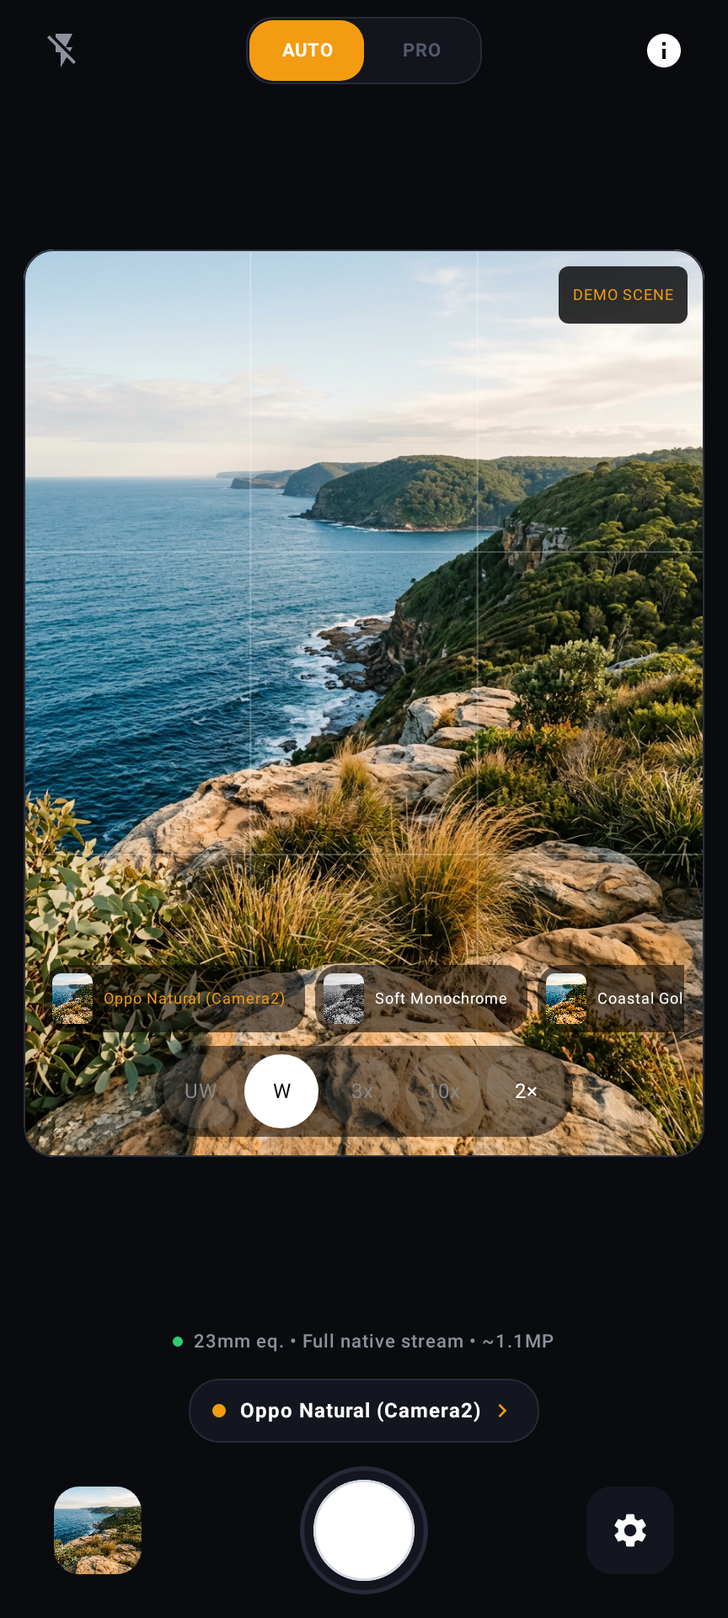
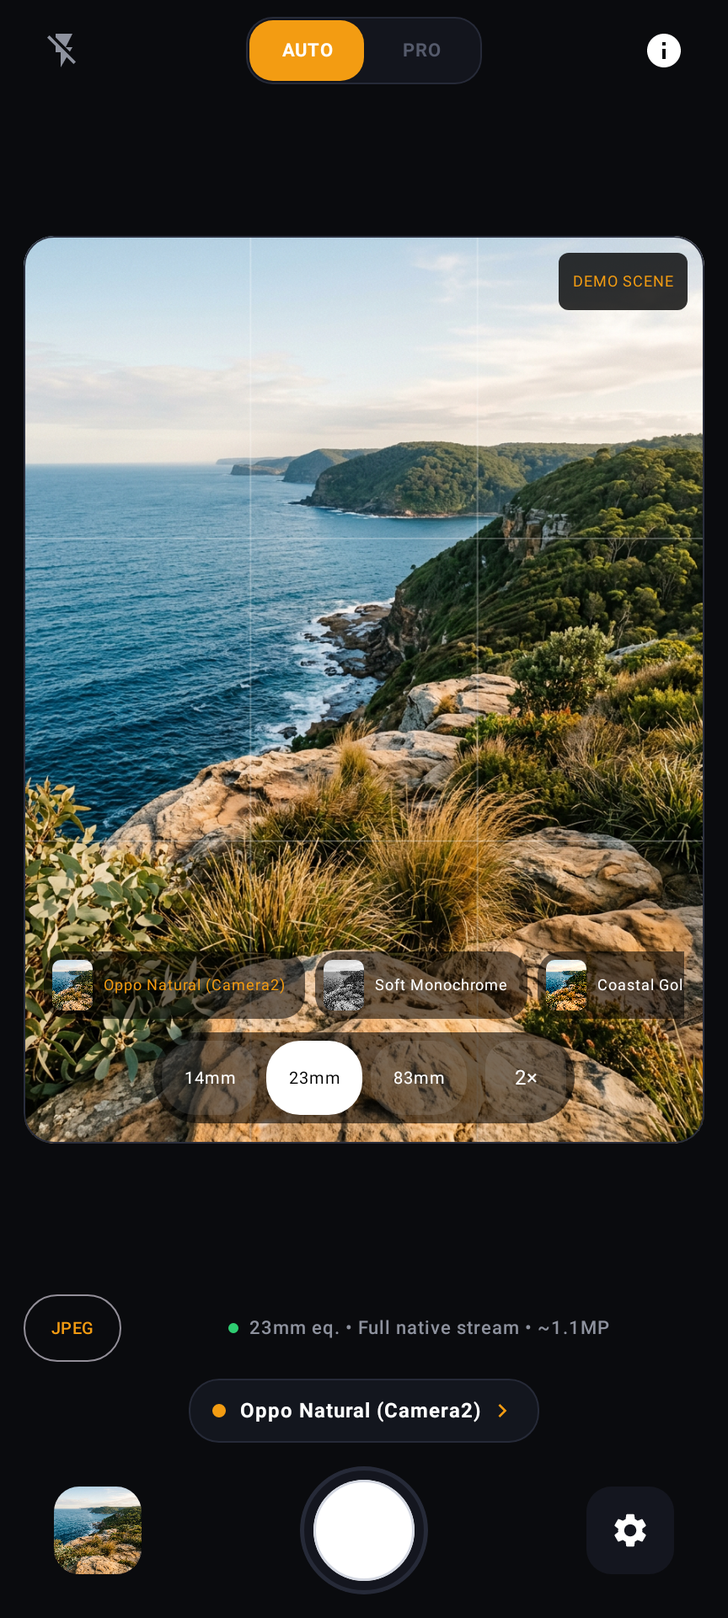
docs(site): publish verified beta.2 download and Camera2 RAW showcase

diff --git a/site/index.html b/site/index.html
@@ -45,6 +45,7 @@
       <nav class="desktop-nav" aria-label="Main navigation">
         <a href="#philosophy">Why natural</a>
         <a href="#experience">The experience</a>
+        <a href="#raw-formats">RAW formats</a>
         <a href="#compatibility">Your device</a>
         <a href="#questions">FAQ</a>
       </nav>
@@ -52,7 +53,8 @@
         <a class="button button-small button-light" href="#download">Get the app <svg class="icon"><use href="#i-download"/></svg></a>
         <details class="mobile-menu">
           <summary aria-label="Open navigation"><svg class="icon"><use href="#i-menu"/></svg></summary>
-          <nav aria-label="Mobile navigation"><a href="#philosophy">Why natural</a><a href="#experience">The experience</a><a href="#compatibility">Your device</a><a href="#questions">FAQ</a></nav>
+          <nav aria-label="Mobile navigation"><a href="#philosophy">Why natural</a><a href="#experience">The experience</a>
+        <a href="#raw-formats">RAW formats</a><a href="#compatibility">Your device</a><a href="#questions">FAQ</a></nav>
         </details>
       </div>
     </div>
@@ -62,12 +64,12 @@
     <section class="hero section" aria-labelledby="hero-title">
       <div class="container hero-grid">
         <div class="hero-copy">
-          <a class="release-pill" href="https://github.com/TheSwagInDisguise/MobileFilmLab/releases/tag/v0.2.0-beta.1"><span class="status-dot"></span> First public release <span class="pill-version">v0.2.0-beta.1</span><svg class="icon"><use href="#i-arrow"/></svg></a>
+          <a class="release-pill" href="https://github.com/TheSwagInDisguise/MobileFilmLab/releases/tag/v0.2.0-beta.2"><span class="status-dot"></span> Public release <span class="pill-version">v0.2.0-beta.2</span><svg class="icon"><use href="#i-arrow"/></svg></a>
           <h1 id="hero-title">Natural photos.<br><em>No AI added.</em></h1>
           <p class="hero-description">Your camera hardware. Your eye. A quieter Android camera built around native output—not an image model.</p>
           <p class="hero-detail">Shoot naturally, take manual control, or choose a film-inspired look. The processing MobileFilmLab adds is local, optional and non-AI.</p>
           <div class="hero-buttons">
-            <a class="button button-primary download-link" href="https://github.com/TheSwagInDisguise/MobileFilmLab/releases/download/v0.2.0-beta.1/MobileFilmLab-v0.2.0-beta.1-signed.apk"><svg class="icon"><use href="#i-download"/></svg> Download for Android</a>
+            <a class="button button-primary download-link" href="https://github.com/TheSwagInDisguise/MobileFilmLab/releases/download/v0.2.0-beta.2/MobileFilmLab-v0.2.0-beta.2-signed.apk"><svg class="icon"><use href="#i-download"/></svg> Download for Android</a>
             <a class="text-link" href="#experience">Take a look <svg class="icon"><use href="#i-arrow"/></svg></a>
           </div>
           <div class="hero-meta"><span>Android 9+</span><span>Free &amp; open source</span><span>Photos only</span></div>
@@ -95,7 +97,7 @@
           <article class="feature-card"><div class="card-top"><span class="card-icon"><svg class="icon"><use href="#i-noai"/></svg></span><span class="card-number">02</span></div><h3>No AI enhancement added.</h3><p>MobileFilmLab adds no generative image model, neural photo enhancement or cloud processing. Optional colour, sharpening, grain and fusion use conventional, non-ML algorithms.</p><a class="small-link" href="#processing-note">What this does—and doesn’t—mean <svg class="icon"><use href="#i-arrow"/></svg></a></article>
           <article class="feature-card"><div class="card-top"><span class="card-icon"><svg class="icon"><use href="#i-shield"/></svg></span><span class="card-number">03</span></div><h3>Your photos stay yours.</h3><p>Preview, capture, looks and recipe processing happen on-device. No advertising, analytics or photo uploads. The app contacts GitHub only when you choose to check for an update.</p><a class="small-link" href="https://github.com/TheSwagInDisguise/MobileFilmLab/blob/main/docs/PRIVACY.md">Read the privacy notice <svg class="icon"><use href="#i-external"/></svg></a></article>
         </div>
-        <div id="processing-note" class="processing-note"><svg class="icon"><use href="#i-sliders"/></svg><p><strong>Hardware-first doesn’t mean an unprocessed sensor dump.</strong> The device’s ISP still processes the camera image. Manufacturer firmware and optional OEM modes may use proprietary processing we can’t inspect or rule out. This release saves <strong>JPEG, not RAW/DNG</strong>; “no AI added” describes MobileFilmLab’s own processing.</p></div>
+        <div id="processing-note" class="processing-note"><svg class="icon"><use href="#i-sliders"/></svg><p><strong>Hardware-first isn’t a firmware bypass.</strong> JPEG still passes through the device ISP. Real sensor RAW/DNG is now available where Camera2 advertises it, without app-added colour, grain or crop. Even RAW can include hardware/firmware corrections; proprietary manufacturer processing remains outside the no-app-added-AI guarantee.</p></div>
       </div>
     </section>
 
@@ -107,7 +109,16 @@
           <article class="screen-card"><div class="screen-heading"><span class="screen-index">02</span><h3>PRO, on your terms.</h3><p>ISO, shutter, white balance and focus. Hardware-limited controls, no mystery promises.</p></div><button class="screen-button" type="button" data-screen="assets/app-pro.webp" data-title="PRO — actual UI render with illustrative settings" aria-label="Enlarge the PRO interface"><span class="phone"><img src="assets/app-pro.webp" width="864" height="1920" alt="PRO app interface with illustrative manual settings and a custom look" loading="lazy" decoding="async"></span><span class="enlarge-label">View larger <svg class="icon"><use href="#i-external"/></svg></span></button></article>
           <article class="screen-card"><div class="screen-heading"><span class="screen-index">03</span><h3>A little character. Optional.</h3><p>Live colour previews, a Tone / Warmth pad and saved looks. Leave it natural—or make it yours.</p></div><button class="screen-button" type="button" data-screen="assets/app-recipes.webp" data-title="Recipe editing — actual UI render with custom test presets" aria-label="Enlarge the recipe editor"><span class="phone"><img src="assets/app-recipes.webp" width="864" height="1920" alt="Actual recipe drawer with demo colour previews and the Tone Warmth pad" loading="lazy" decoding="async"></span><span class="enlarge-label">View larger <svg class="icon"><use href="#i-external"/></svg></span></button></article>
         </div>
-        <p class="screens-disclosure">These are real Android/Compose components rendered with a labelled, AI-generated demo scene and illustrative camera/control state. They are not photos taken by MobileFilmLab or evidence of camera quality. <a href="https://github.com/TheSwagInDisguise/MobileFilmLab/blob/main/docs/SCREENSHOTS.md">See provenance.</a></p>
+        <p class="screens-disclosure">These are real Android/Compose components rendered with a labelled, AI-generated demo scene and illustrative camera/control/RAW capability state. They are not photos taken by MobileFilmLab or evidence of camera quality. <a href="https://github.com/TheSwagInDisguise/MobileFilmLab/blob/main/docs/SCREENSHOTS.md">See provenance.</a></p>
+      </div>
+    </section>
+
+    <section id="raw-formats" class="section raw-formats-section" aria-labelledby="raw-formats-title">
+      <div class="container raw-formats-grid">
+        <div class="raw-formats-copy"><p class="eyebrow">New in beta.2 / Your files, your choice</p><h2 id="raw-formats-title">One sensor capture.<br><em>Three ways to keep it.</em></h2><p>Keep a ready-to-use image, develop the sensor data yourself, or save both. File formats are enabled per camera—not promised for every lens.</p>
+          <div class="format-options"><article><span>01</span><div><h3>JPEG only</h3><p>Natural by default. Optional looks, grain and JPEG processing stay in your hands.</p></div></article><article><span>02</span><div><h3>RAW (DNG) only</h3><p>Actual RAW_SENSOR data, streamed to DNG without an app colour grade, crop or interpolation. No still-JPEG stream.</p></div></article><article><span>03</span><div><h3>RAW + JPEG</h3><p>A timestamp-matched pair with one filename stem. A JPEG you can share, and an ungraded DNG you can develop.</p></div></article></div>
+          <p class="raw-limits">RAW uses standard Camera2, native 1× and advertised streams up to 55MP. No RAW fusion, OEM HDR/Night or ZSL. DNG rendering, dimensions and firmware support vary; a compatible RAW editor may be needed.</p><a class="text-link" href="https://github.com/TheSwagInDisguise/MobileFilmLab/blob/main/docs/DYNAMIC_CAMERAS_AND_RAW.md">Camera and RAW details <svg class="icon"><use href="#i-arrow"/></svg></a>
+        </div><div class="raw-formats-visual"><button class="screen-button" type="button" data-screen="assets/app-formats.webp" data-title="File format controls — actual UI render with illustrative RAW capability" aria-label="Enlarge the JPEG RAW and RAW plus JPEG controls"><span class="phone"><img src="assets/app-formats.webp" width="864" height="1920" alt="Actual format dialog rendered with illustrative RAW capability, not a real sensor capture" loading="lazy" decoding="async"></span><span class="enlarge-label">View format controls <svg class="icon"><use href="#i-external"/></svg></span></button><p>Actual UI render · simulated capability state<br>Not evidence of a captured or validated sensor DNG.</p></div>
       </div>
     </section>
 
@@ -115,7 +126,7 @@
       <div class="container toolkit-grid">
         <div class="toolkit-copy"><p class="eyebrow">03 / A small photographic toolkit</p><h2 id="toolkit-title">Keep it natural.<br><em>Or find your look.</em></h2><p>The complete 77-recipe upstream catalogue, plus three camera baselines. Nothing missing, and nothing mandatory.</p><div class="catalogue-stat"><strong>80</strong><span>built-in looks<br><small>77 recipes + 3 baselines</small></span></div><a class="text-link" href="https://github.com/TheSwagInDisguise/MobileFilmLab#features">Explore all features <svg class="icon"><use href="#i-arrow"/></svg></a></div>
         <div class="toolkit-list">
-          <article><span class="tool-icon"><svg class="icon"><use href="#i-layers"/></svg></span><div><h3>Framing, honestly labelled.</h3><p>Fixed rear lens slots where exposed. Four digital framing levels, with native crop dimensions and no disguised interpolation.</p></div></article>
+          <article><span class="tool-icon"><svg class="icon"><use href="#i-layers"/></svg></span><div><h3>Your cameras. Actually detected.</h3><p>Camera2 reports the photo-capable rear routes. Select an exact camera ID, with detected focal labels and logical Auto routes clearly distinguished. JPEG has four digital framing levels.</p></div></article>
           <article><span class="tool-icon"><svg class="icon"><use href="#i-sliders"/></svg></span><div><h3>Looks you can keep and share.</h3><p>Favourites, custom presets, optional grain and before/after colour comparison. Exchange recipe files and QR images locally.</p></div></article>
           <article><span class="tool-icon"><svg class="icon"><use href="#i-camera"/></svg></span><div><h3>Made for taking photographs.</h3><p>Composition grids, a sensor-driven level, hardware shutter keys and a local gallery with zoom, metadata and sharing.</p></div></article>
           <article><span class="tool-icon"><svg class="icon"><use href="#i-code"/></svg></span><div><h3>Open about the limits, too.</h3><p>Optional OEM HDR/Night, JPEG fusion and ZSL are experimental and firmware-dependent. Unsupported capabilities aren’t relabelled as supported.</p></div></article>
@@ -130,16 +141,16 @@
     <section id="questions" class="section questions-section" aria-labelledby="questions-title">
       <div class="container questions-grid"><div class="questions-heading"><p class="eyebrow">05 / A few honest answers</p><h2 id="questions-title">Before your<br><em>first frame.</em></h2><p>No hidden magic.<br>No promises the hardware can’t keep.</p></div><div class="faq-list">
         <details><summary>Does the app use AI to process my photos?<span class="faq-plus" aria-hidden="true"></span></summary><div class="faq-answer"><p>MobileFilmLab adds no generative image model, ML enhancement or cloud photo processing. Its optional editing and fusion are conventional algorithms.</p><p>Your device’s camera/ISP still processes images, and optional manufacturer extensions may use proprietary techniques. We can’t promise that every firmware path is AI-free.</p></div></details>
-        <details><summary>Does “hardware-first” mean RAW capture?<span class="faq-plus" aria-hidden="true"></span></summary><div class="faq-answer"><p>No. This release captures JPEG through Android Camera2; RAW/DNG export is not implemented. “Hardware-first” means starting from the exposed camera pipeline and avoiding app-added AI enhancement—not bypassing the ISP or accessing a bare sensor stream.</p></div></details>
+        <details><summary>Can I capture real RAW files?<span class="faq-plus" aria-hidden="true"></span></summary><div class="faq-answer"><p>Yes, on camera routes that advertise usable RAW_SENSOR support. Choose RAW (DNG) only, RAW + JPEG, or JPEG only from the format badge or Settings. RAW-only requests no still JPEG; paired mode uses one timestamp-matched request.</p><p>DNG is written from the sensor image through Android DngCreator—not converted from a JPEG. No app recipe, grain, RGB correction, digital crop or interpolation is applied. RAW modes use standard Camera2, native 1× and advertised normal-pixel-mode sizes up to 55MP; OEM modes, fusion and ZSL are JPEG-only.</p><p>Firmware can reject advertised combinations. Real DNG validity and rendering still need handset testing in a RAW-capable editor. Hardware corrections can already be present in exposed RAW.</p></div></details>
         <details><summary>How do I keep the most natural starting point?<span class="faq-plus" aria-hidden="true"></span></summary><div class="faq-answer"><p>Use the default Natural baseline, standard Camera2 processing, native output and 1× framing, with grain off and lens gains unchanged. In that unedited path, the exposed JPEG pixel data is preserved and capture/recipe metadata is added.</p><p>Choosing a look, crop, grain or calibration edit changes the result. Those creative choices stay in your hands.</p></div></details>
-        <details><summary>Will every rear camera work on my phone?<span class="faq-plus" aria-hidden="true"></span></summary><div class="faq-answer"><p>Only cameras and stream combinations exposed by the firmware can be used. Unavailable slots are disabled. The UW/W/3x/10x labels are navigation slots, not a guarantee of optical magnification.</p><p>Oppo Find X9 Ultra is the primary target. Please send a device report to help us expand compatibility.</p></div></details>
-        <details><summary>Why is the screenshot scene AI-generated?<span class="faq-plus" aria-hidden="true"></span></summary><div class="faq-answer"><p>The screenshots render the app’s actual Android/Compose UI without a connected handset. A generated landscape provides a clearly labelled demo input; it was not captured or processed by the app. It demonstrates the interface, not photographic quality.</p><p>The project was also developed substantially with AI assistance. That is separate from the app’s photo-processing design. <a href="https://github.com/TheSwagInDisguise/MobileFilmLab/blob/main/docs/AI_DISCLOSURE.md">Read the development disclosure.</a></p></div></details>
-        <details><summary>Is this a stable, universally tested camera app?<span class="faq-plus" aria-hidden="true"></span></summary><div class="faq-answer"><p>No. The current version is v0.2.0-beta.1, published as the latest regular GitHub Release by owner request. That classification does not turn it into a newly built stable version or certify every device and feature.</p><p>Keep another camera available for important photos and read the <a href="https://github.com/TheSwagInDisguise/MobileFilmLab/blob/main/KNOWN_LIMITATIONS.md">known limitations</a>.</p></div></details>
+        <details><summary>How does the app find my lenses?<span class="faq-plus" aria-hidden="true"></span></summary><div class="faq-answer"><p>Camera2 provides public camera IDs, physical links behind logical cameras, focal lengths, sensor dimensions and stream capabilities. The selector now shows all exposed photo-capable rear routes instead of four fixed slots, and selects each by its exact ID.</p><p>Labels use approximate detected equivalent focal lengths, physical millimetres marked with an asterisk when necessary, or an ID if metadata is missing. Logical Auto routes are not additional physical lenses. Firmware-hidden cameras remain inaccessible.</p><p>Oppo Find X9 Ultra remains the primary target. Please send a device report to help expand compatibility.</p></div></details>
+        <details><summary>Why is the screenshot scene AI-generated?<span class="faq-plus" aria-hidden="true"></span></summary><div class="faq-answer"><p>The screenshots render the app’s actual Android/Compose UI without a connected handset. The landscape and camera/RAW capability state are illustrative. They demonstrate the controls, not a captured photo, valid sensor DNG or device compatibility.</p><p>The project was also developed substantially with AI assistance. That is separate from the app’s photo-processing design. <a href="https://github.com/TheSwagInDisguise/MobileFilmLab/blob/main/docs/AI_DISCLOSURE.md">Read the development disclosure.</a></p></div></details>
+        <details><summary>Is this a stable, universally tested camera app?<span class="faq-plus" aria-hidden="true"></span></summary><div class="faq-answer"><p>No. The current version is v0.2.0-beta.2, published as the latest regular GitHub Release by owner request. That classification does not turn it into a newly built stable version or certify every device and feature.</p><p>Keep another camera available for important photos and read the <a href="https://github.com/TheSwagInDisguise/MobileFilmLab/blob/main/KNOWN_LIMITATIONS.md">known limitations</a>.</p></div></details>
       </div></div>
     </section>
 
     <section id="download" class="section download-section" aria-labelledby="download-title">
-      <div class="container"><div class="download-card"><div class="download-heading"><img src="assets/icon.png" width="72" height="72" alt="MobileFilmLab film-canister icon" loading="lazy"><p class="eyebrow">Your next frame is yours.</p><h2 id="download-title">Take the camera.<br><em>Leave the image model.</em></h2><p>Free, open source, and ready for public testing.</p></div><div class="download-panel"><div class="download-version"><span class="status-dot"></span> Latest release <strong>v0.2.0-beta.1</strong></div><a class="button button-primary button-full download-link" href="https://github.com/TheSwagInDisguise/MobileFilmLab/releases/download/v0.2.0-beta.1/MobileFilmLab-v0.2.0-beta.1-signed.apk"><svg class="icon"><use href="#i-download"/></svg> Download signed APK <span>38.9 MiB</span></a><p class="download-requirements">Android 9+ · versionCode 10 · GPL-3.0-or-later</p><a class="release-details-link" href="https://github.com/TheSwagInDisguise/MobileFilmLab/releases/tag/v0.2.0-beta.1">Release notes, checksums &amp; testing guide <svg class="icon"><use href="#i-external"/></svg></a><div class="install-note"><svg class="icon"><use href="#i-check"/></svg><p>Updating? Install over the existing release. The package and signing key are unchanged. Don’t uninstall if you want to keep your app data.</p></div><details class="checksum-details"><summary>Verify the download <svg class="icon"><use href="#i-shield"/></svg></summary><div><span class="checksum-label">APK SHA-256</span><code id="apk-checksum">8904258029217377606696654685deaa8c58f0d32b689bab9b0a7f437b729dc7</code><button class="copy-button" type="button" data-copy="apk-checksum"><svg class="icon"><use href="#i-copy"/></svg> Copy checksum</button><span id="copy-status" class="copy-status" role="status" aria-live="polite"></span></div></details></div></div></div>
+      <div class="container"><div class="download-card"><div class="download-heading"><img src="assets/icon.png" width="72" height="72" alt="MobileFilmLab film-canister icon" loading="lazy"><p class="eyebrow">Your next frame is yours.</p><h2 id="download-title">Take the camera.<br><em>Leave the image model.</em></h2><p>Free, open source, and ready for public testing.</p></div><div class="download-panel"><div class="download-version"><span class="status-dot"></span> Latest release <strong>v0.2.0-beta.2</strong></div><a class="button button-primary button-full download-link" href="https://github.com/TheSwagInDisguise/MobileFilmLab/releases/download/v0.2.0-beta.2/MobileFilmLab-v0.2.0-beta.2-signed.apk"><svg class="icon"><use href="#i-download"/></svg> Download signed APK <span>39.0 MiB</span></a><p class="download-requirements">Android 9+ · versionCode 11 · GPL-3.0-or-later</p><a class="release-details-link" href="https://github.com/TheSwagInDisguise/MobileFilmLab/releases/tag/v0.2.0-beta.2">Release notes, checksums &amp; testing guide <svg class="icon"><use href="#i-external"/></svg></a><div class="install-note"><svg class="icon"><use href="#i-check"/></svg><p>Updating? Install over the existing release. The package and signing key are unchanged. Don’t uninstall if you want to keep your app data.</p></div><details class="checksum-details"><summary>Verify the download <svg class="icon"><use href="#i-shield"/></svg></summary><div><span class="checksum-label">APK SHA-256</span><code id="apk-checksum">b85473ac25aeea56c52a44de731b3712835c8db715ed39ba391bfb203bdd210b</code><button class="copy-button" type="button" data-copy="apk-checksum"><svg class="icon"><use href="#i-copy"/></svg> Copy checksum</button><span id="copy-status" class="copy-status" role="status" aria-live="polite"></span></div></details></div></div></div>
     </section>
   </main>
 

diff --git a/site/styles.css b/site/styles.css
@@ -11,3 +11,8 @@ h1,h2,h3{margin:0;font-weight:500}h1,h2{font-family:var(--serif);letter-spacing:
 @media(max-width:640px){.container{width:calc(100% - 40px)}.section{padding-top:65px;padding-bottom:65px}.header-inner{height:70px;gap:12px}.brand{font-size:16px;gap:8px;letter-spacing:-.5px}.brand img{width:33px;height:33px;border-radius:9px}.header-actions{gap:8px}.header-actions>.button{padding:8px 11px;font-size:10px;min-height:36px;gap:7px}.header-actions>.button .icon{width:14px;height:14px}.mobile-menu summary{width:33px;height:36px}.hero{padding-top:37px;padding-bottom:34px}.hero-grid{grid-template-columns:1fr;gap:29px}.hero-copy{text-align:center;padding:0}.release-pill{margin-bottom:25px;font-size:9px;padding:7px 11px;gap:8px}.pill-version{padding-left:8px}h1{font-size:clamp(55px,11.8vw,72px);line-height:1.07;letter-spacing:-.045em}.hero-description{font-size:15px;max-width:380px;margin:22px auto 0}.hero-detail{max-width:360px;margin:13px auto 0;font-size:12px}.hero-buttons{align-items:center;flex-direction:row;justify-content:center;gap:23px;margin-top:25px}.hero-buttons>.button{font-size:11px;min-height:48px;padding:12px 16px}.hero-buttons>.text-link{font-size:11px}.hero-meta{justify-content:center;margin-top:16px;font-size:9px;gap:10px}.target-note{justify-content:center;margin-top:29px;text-align:left;gap:11px}.target-note p{font-size:10px}.small-rule{height:29px}.hero-visual{min-height:620px;padding-top:25px;padding-bottom:55px;max-width:380px;width:100%;margin:0 auto}.hero-phone{width:234px;transform:rotate(2deg)}.visual-label{font-size:8px;top:0}.floating-note{left:0;bottom:121px;padding:12px 15px;gap:10px}.floating-note strong{font-size:11px}.floating-note span:not(.note-icon){font-size:8px}.floating-note .note-icon{height:31px;width:31px}.visual-orbit{height:370px;width:370px;top:115px}.orbit-two{height:270px;width:270px;top:165px}.visual-caption{bottom:3px;font-size:8px}.principles-inner{grid-template-columns:repeat(2,1fr);gap:19px 12px;padding-block:23px}.principles-inner>span{font-size:10px;justify-content:flex-start;padding-left:8px}.principles-inner .icon{width:17px;height:17px}.split-heading{flex-direction:column;align-items:flex-start;gap:22px}.heading-description{max-width:350px;font-size:12px}.eyebrow{font-size:9px;letter-spacing:1.8px;margin-bottom:18px}h2{font-size:41px}.philosophy-grid{grid-template-columns:1fr;gap:15px}.feature-card{padding:25px 23px}.card-top{margin-bottom:20px}.feature-card h3{font-size:18px}.feature-card>p{font-size:12px;line-height:1.9}.card-tag{font-size:10px;padding-top:20px}.feature-card .small-link{font-size:11px;padding-top:21px}.processing-note{padding:20px 18px;gap:13px;margin-top:18px}.processing-note>.icon{width:17px}.processing-note p{font-size:10px;line-height:1.95}.centered-heading>p:last-child{font-size:12px;max-width:320px;margin:20px auto 0}.screens-grid{grid-template-columns:1fr;gap:23px;margin-top:35px}.screen-card{padding:25px 24px 20px;display:grid;grid-template-columns:.83fr 1fr;gap:18px;align-items:center}.screen-heading{min-height:0}.screen-heading h3{font-size:18px;line-height:1.4}.screen-heading p{font-size:11px;margin-top:13px;line-height:1.85}.screen-index{font-size:10px;margin-bottom:14px}.screen-button{margin:0}.screen-button .phone{border-radius:18px;padding:4px}.screen-button .phone img{border-radius:14px}.enlarge-label{font-size:8px;margin-top:13px}.screens-disclosure{font-size:9px;margin-top:24px}.toolkit-grid{grid-template-columns:1fr;gap:39px}.toolkit-copy>p:not(.eyebrow){font-size:12px;max-width:340px;margin-top:19px}.catalogue-stat{margin-top:24px;margin-bottom:23px}.catalogue-stat>strong{font-size:72px}.toolkit-list article{padding:21px 0;gap:17px}.toolkit-list h3{font-size:15px}.toolkit-list p{font-size:11px}.compatibility-section{padding-top:0}.compatibility-card{grid-template-columns:1fr;gap:25px;padding:25px 24px 32px}.device-art{display:none}.compatibility-copy h2{font-size:36px}.compatibility-copy .eyebrow{font-size:8px;letter-spacing:1.6px}.compatibility-copy p:not(.eyebrow){font-size:12px;margin-top:19px}.compatibility-copy p.muted{font-size:10px;margin-top:12px}.compatibility-actions{gap:20px;margin-top:23px}.questions-grid{grid-template-columns:1fr;gap:29px}.questions-heading h2{font-size:42px}.questions-heading>p:last-child{font-size:11px;margin-top:20px}.faq-list summary{font-size:12px;padding-block:22px;gap:20px}.faq-answer{font-size:11px;line-height:1.95;padding-bottom:22px;padding-right:15px}.download-section{padding-top:65px;padding-bottom:56px}.download-card{grid-template-columns:1fr;gap:32px;padding:29px 24px 30px}.download-heading>img{height:54px;width:54px;margin-bottom:20px;border-radius:13px}.download-heading h2{font-size:38px}.download-heading>p:last-child{font-size:11px;margin-top:18px}.download-panel .button-primary{font-size:12px;min-height:54px}.download-panel .button-primary>span{font-size:9px}.download-version{font-size:10px}.download-requirements{font-size:9px}.release-details-link{font-size:10px}.install-note p{font-size:10px}.site-footer{padding-top:27px}.footer-main{align-items:flex-start;flex-direction:column;gap:21px}.footer-main .brand{font-size:17px}.footer-main nav{gap:24px;font-size:10px}.footer-bottom{flex-direction:column;gap:13px;padding-top:20px;margin-top:24px}.footer-bottom p,.footer-bottom p:last-child{font-size:9px;line-height:1.9;max-width:none;text-align:left}.screen-dialog{padding:16px 15px;border-radius:13px}.dialog-header p{font-size:10px}.dialog-close{width:32px;height:32px}.screen-dialog>img{max-height:72dvh}.dialog-caption{font-size:8px}}
 @media(max-width:370px){.container{width:calc(100% - 32px)}.brand{font-size:15px;gap:7px}.brand img{width:30px;height:30px}.header-actions>.button{font-size:9px;padding-inline:9px}.hero-buttons{gap:17px}.hero-buttons>.button{font-size:10px;padding-inline:13px}.release-pill{font-size:8px;gap:7px}.hero-meta{font-size:8px}.hero-phone{width:216px}.hero-visual{min-height:580px}.screen-card{padding:23px 16px;gap:14px;grid-template-columns:.85fr 1fr}.screen-heading h3{font-size:16px}.screen-heading p{font-size:10px}.download-card{padding:26px 21px}.download-heading h2{font-size:34px}}
 @media(prefers-reduced-motion:reduce){html{scroll-behavior:auto}*,*::before,*::after{animation:none!important;transition:none!important}}
+
+/* Camera2 RAW formats: real UI render, explicitly illustrative capabilities. */
+.raw-formats-section{border-bottom:1px solid #282e36;background:radial-gradient(ellipse at 85% 50%,#77532c12,transparent 55%),#0c1015}.raw-formats-grid{display:grid;grid-template-columns:1.12fr .88fr;gap:100px;align-items:center}.raw-formats-copy>p:not(.eyebrow):not(.raw-limits){color:var(--muted);font-size:13px;line-height:1.9;max-width:430px;margin-top:23px}.format-options{margin-top:29px;display:flex;flex-direction:column}.format-options article{display:flex;gap:18px;padding:19px 0;border-bottom:1px solid #30353d}.format-options article>span{font-size:10px;color:var(--accent);padding-top:3px}.format-options h3{font-size:15px}.format-options p{font-size:11px;color:#a8b0ba;line-height:1.9;margin-top:7px}.raw-limits{font-size:10px;line-height:1.95;color:#939daa;margin-top:23px;max-width:440px}.raw-formats-copy>.text-link{font-size:11px;margin-top:22px}.raw-formats-visual{border:1px solid #34363b;border-radius:22px;background:linear-gradient(145deg,#25221c,#11171e);padding:34px 27px 24px}.raw-formats-visual .phone{width:248px}.raw-formats-visual>p{text-align:center;color:#a3aab4;font-size:9px;line-height:1.9;margin-top:18px}.raw-formats-visual .screen-button .phone{width:248px;max-width:100%}
+@media(max-width:900px){.raw-formats-grid{gap:48px}.raw-formats-visual{padding:26px 19px 22px}.raw-formats-copy h2{font-size:39px}}
+@media(max-width:640px){.raw-formats-grid{grid-template-columns:1fr;gap:34px}.raw-formats-copy h2{font-size:40px}.raw-formats-copy>p:not(.eyebrow):not(.raw-limits){font-size:12px;margin-top:20px}.raw-formats-visual{max-width:365px;width:100%;margin-inline:auto;padding:29px 28px 23px}.raw-formats-visual .screen-button .phone{width:238px}.raw-limits{font-size:10px}}

diff --git a/scripts/check_site.py b/scripts/check_site.py
@@ -73,7 +73,7 @@ def main():
     downloads = [ref for _, _, ref in parser.refs if ref.endswith('.apk')]
     assert len(downloads) >= 2 and set(downloads) == {release['apkUrl']}, 'Stale download CTA'
     assert release['sha256'] in html and release['primaryDevice'] in html
-    assert 'JPEG, not RAW/DNG' in html and 'ISP' in html, 'Missing hardware-processing limitation'
+    assert 'RAW_SENSOR' in html and 'RAW + JPEG' in html and 'ISP' in html and 'firmware' in html, 'Missing RAW capability/firmware disclosure'
     assert 'AI-generated demo scene' in html and 'AI-assisted development' in html, 'Missing provenance disclosure'
     for filename in ('styles.css', 'app.js', 'robots.txt', 'sitemap.xml', '.nojekyll'):
         assert (SITE / filename).is_file(), f'Missing site file: {filename}'

diff --git a/docs/WEBSITE.md b/docs/WEBSITE.md
@@ -31,10 +31,10 @@ Changes to `site/`, the site checker or the Pages workflow on `main` trigger dep
 
 Keep `site/release.json` and the visible HTML version, APK links, checksum, file size and code in sync with the actual verified release. The checker compares the release version/code with Gradle and rejects stale or unexpected download CTAs. Do not link withdrawn historical APKs.
 
-The current app remains **v0.2.0-beta.1 / code 10**, promoted to a regular Latest GitHub Release without changing its APK/tag/signing identity. Classification is not a new stable-version build or universal hardware validation. See [publication policy](PUBLIC_RELEASE.md).
+The current app remains **v0.2.0-beta.2 / code 11**, published as the next regular Latest GitHub Release with the established package/key and increased code. Classification is not a new stable-version build or universal hardware validation. See [publication policy](PUBLIC_RELEASE.md).
 
 ## Privacy and honest wording
 
 No advertising, analytics, third-party JavaScript, remote fonts or cookies are added by this site. GitHub Pages receives normal hosting requests; following GitHub links or downloading the APK contacts GitHub. The website does not process camera images.
 
-The central promise is **no AI enhancement added by MobileFilmLab**. Camera firmware/ISP and optional manufacturer modes may still use proprietary processing we cannot inspect. JPEG capture is not unprocessed RAW/DNG. Preserve those distinctions when editing the marketing copy. See [natural capture](NATURAL_CAPTURE.md).
+The central promise is **no AI enhancement added by MobileFilmLab**. Camera firmware/ISP and optional manufacturer modes may still use proprietary processing we cannot inspect. JPEG is not an unprocessed sensor dump; supported RAW formats save actual RAW_SENSOR DNG without app editing, but hardware/firmware corrections may still be present. Preserve those distinctions when editing the marketing copy. See [natural capture](NATURAL_CAPTURE.md).

diff --git a/docs/PUBLIC_RELEASE.md b/docs/PUBLIC_RELEASE.md
@@ -11,3 +11,11 @@ The nine alpha release downloads were previously withdrawn. Beta.1 is superseded
 APK bytes are immutable after publication. Bugs require a new code/version/tag, not replacement of a published APK or moving a tag. Exact owner-approved tags control publication and regular-release classification; this is not blanket permission to recreate withdrawn downloads.
 
 Historical [beta.1 publication record](archive/PUBLIC_RELEASE_BETA_1.md) · [Signing](RELEASE_SIGNING.md) · [Validation status](BETA_READINESS.md)
+
+## Verified beta.2 build
+
+- Source tag commit: `b4a6e1d1c0f8eae74531dc40ed8794c75db493be`.
+- [Main CI](https://github.com/TheSwagInDisguise/MobileFilmLab/actions/runs/40474427508) and [signed release](https://github.com/TheSwagInDisguise/MobileFilmLab/actions/runs/40475125278) succeeded.
+- 95 Android tests and six publication-approval tests passed; release lint and downloaded APK package/version/alignment/certificate checks passed.
[1 lines of base64/hex data omitted]
+- Real handset RAW/DNG validation remains pending; automated checks are not sensor certification.

diff --git a/README.md b/README.md
@@ -48,6 +48,8 @@ MobileFilmLab adds **no generative image model, neural/ML photo enhancement or c
   </tr>
 </table>
 
+[View the RAW / JPEG format dialog](docs/screenshots/formats.png) · [Camera2 and RAW implementation/limits](docs/DYNAMIC_CAMERAS_AND_RAW.md)
+
 ## Install and test
 
 Download the **signed APK** from the release above and allow installation from your browser/file manager when Android asks. The release includes SHA-256 checksums and a testing guide. It uses the same package and signing certificate as the alphas, with a higher version code; install over the existing release rather than uninstalling to preserve custom recipes and favourites. Debug builds are separate apps. RAW sensor capture/metadata must still be validated on your handset; a compatible RAW editor may be needed.
